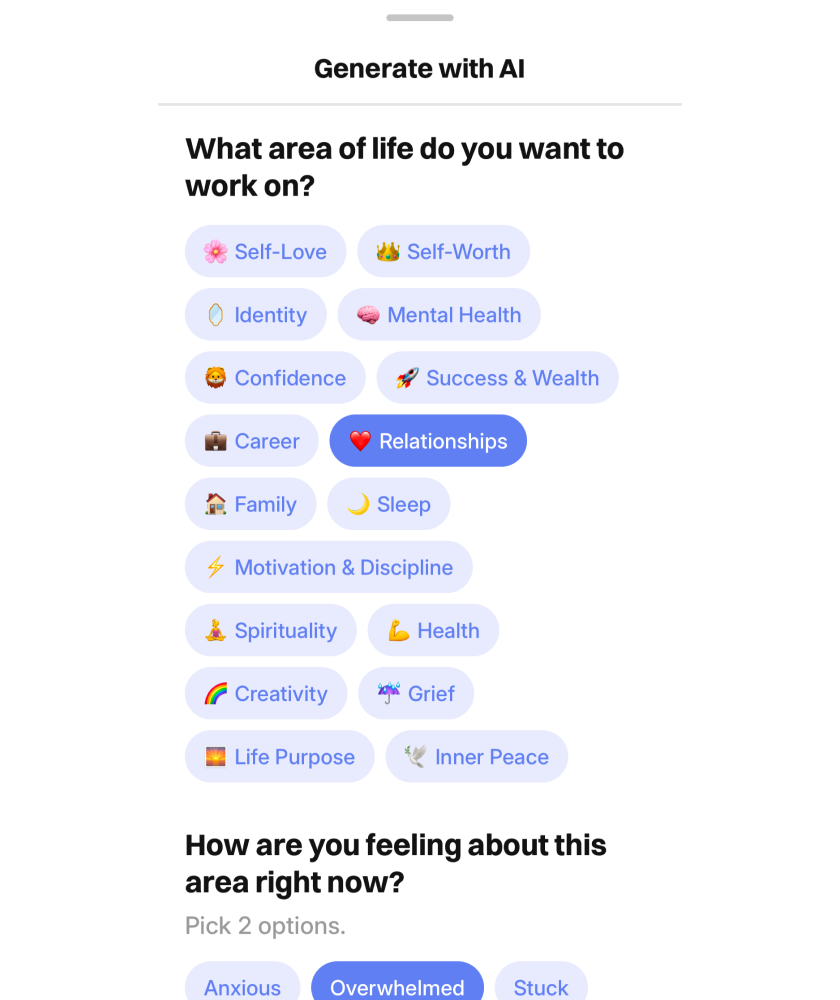
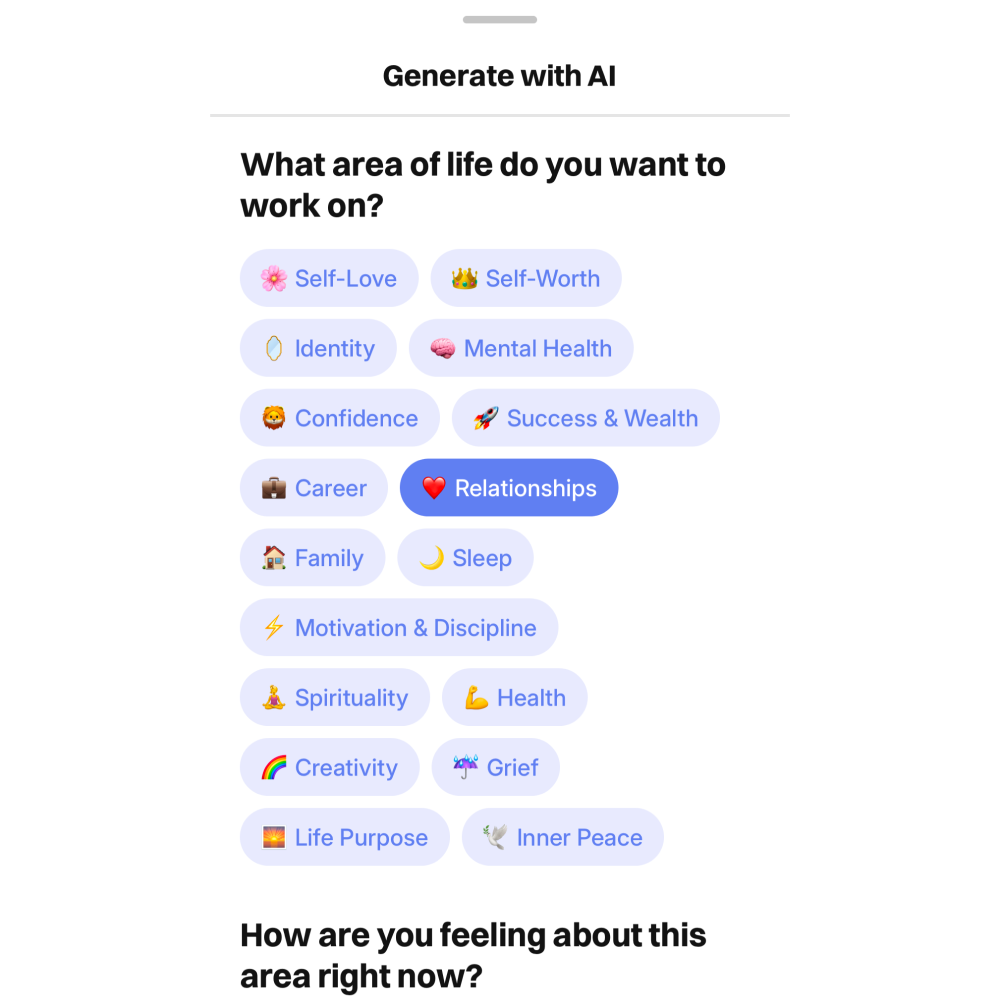
Add practice benefit card and center lone last card
Insert a "Practice that feels effortless" card between the affirmations
and AI cards, swap the gen-AI screenshot for a square version, and center
the orphan last card on the desktop 2-column grid.

diff --git a/assets/css/styles.css b/assets/css/styles.css
@@ -493,6 +493,13 @@ body {
   border-bottom-right-radius: 24px;
 }
 
+/* Center a lone card left over on the last row of the 2-column grid. */
+.feature-card:last-child:nth-child(odd) {
+  grid-column: 1 / -1;
+  width: calc((100% - 40px) / 2);
+  margin-inline: auto;
+}
+
 /* ==========================================================================
    FAQ
    ========================================================================== */
@@ -872,6 +879,11 @@ body {
     grid-template-columns: 1fr;
     gap: 16px;
     margin-top: 36px;
+  }
+
+  .feature-card:last-child:nth-child(odd) {
+    width: 100%;
+    margin-inline: 0;
   }
 
   .feature-card__title {

diff --git a/index.html b/index.html
@@ -79,6 +79,12 @@
       </article>
 
       <article class="feature-card">
+        <h3 class="feature-card__title" data-i18n="feature_7_title">Practice that<br>feels effortless</h3>
+        <p class="feature-card__text" data-i18n="feature_7_text">Intuitive swiping, your choice of voice, music, and theme. Just hit play and listen.</p>
+        <img class="feature-card__image" src="assets/images/en/website_practice.png" alt="Neomind affirmation practice screen" loading="lazy">
+      </article>
+
+      <article class="feature-card">
         <h3 class="feature-card__title" data-i18n="feature_2_title">Create Your Own<br>Affirmations with AI</h3>
         <p class="feature-card__text" data-i18n="feature_2_text">Generate personalized affirmations in seconds by describing your goal or problem.</p>
         <img class="feature-card__image" src="assets/images/en/website_generate_ai.png" alt="Neomind AI affirmation generator screen" loading="lazy">

diff --git a/assets/js/main.js b/assets/js/main.js
@@ -20,6 +20,8 @@ const translations = {
     features_headline: 'Hier ist alles, was du brauchst, um deine innere Welt zu verändern.',
     feature_1_title: '10.000+ Affirmationen<br>sofort einsatzbereit',
     feature_1_text: 'Eine wachsende Bibliothek rund um mentale Gesundheit, persönliches Wachstum, Liebe, Gesundheit, Fülle und mehr. Einfach swipen und aufnehmen.',
+    feature_7_title: 'Üben, das sich<br>mühelos anfühlt',
+    feature_7_text: 'Intuitives Swipen, deine Wahl aus Stimme, Musik und Theme. Einfach abspielen und zuhören.',
     feature_2_title: 'Erstelle eigene<br>Affirmationen mit KI',
     feature_2_text: 'Generiere personalisierte Affirmationen in Sekunden, indem du dein Ziel oder Problem beschreibst.',
     feature_3_title: 'Immersive<br>Visualisierungs-Slides',